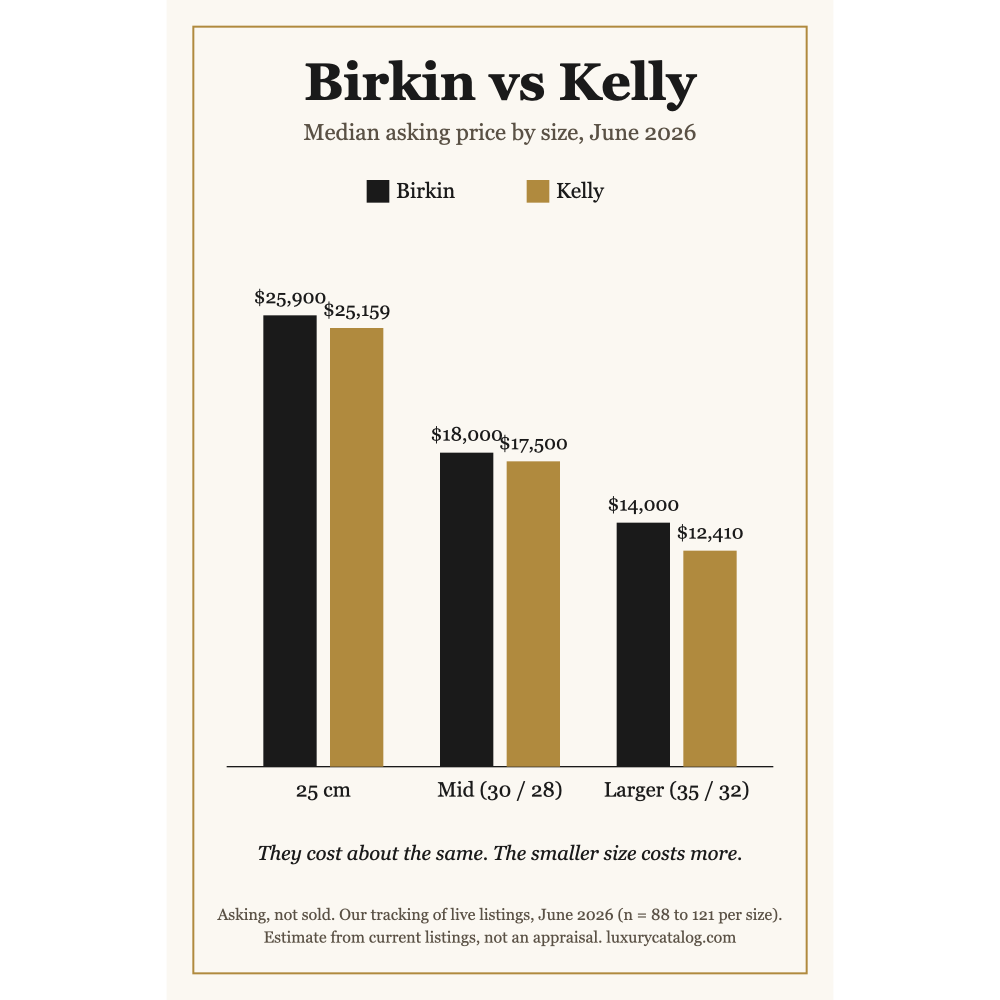
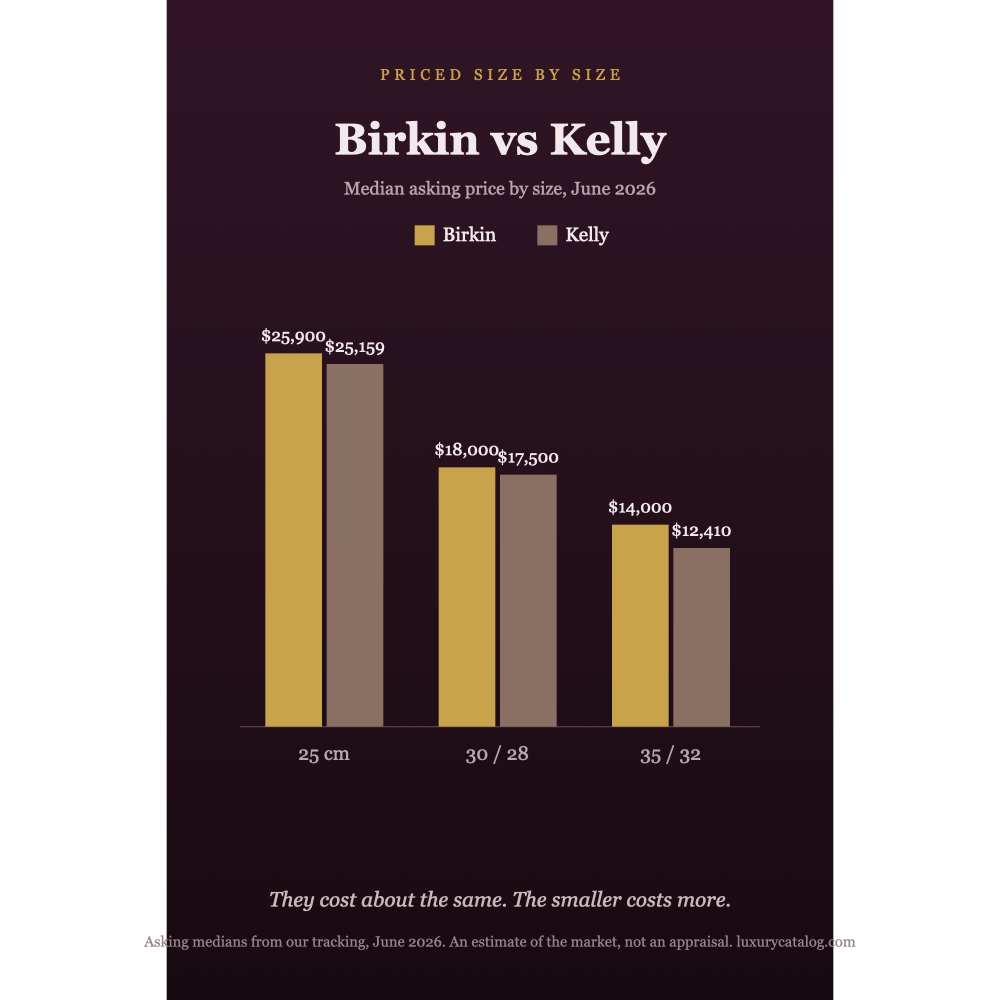
design(social): lock jewel house chart style + rebuild the set
Lady Dior (final: plum jewel base, gold/muted bars, growing non-logo bag
silhouettes, no frame, no arrow), Birkin-vs-Kelly, and Coach ask-vs-sold all
rebuilt to match. Style guide at assets/social/CHART-STYLE.md. PNGs rendered.

diff --git a/assets/social/CHART-STYLE.md b/assets/social/CHART-STYLE.md
@@ -1,0 +1,32 @@
+# House chart style (locked 2026-06-30)
+
+The look for every data-viz pin/graphic. Luxe and professional underneath, one human,
+un-gatekept touch on top. Frameless. Pinterest 2:3 (viewBox 1000x1500).
+
+## Palette (jewel base, default = plum)
+- Background: vertical gradient `#311525` → `#180a11` (plum). Alternates allowed: deep green
+  (`#1b2e25`→`#0e1813`) or charcoal (`#14120c`). Pick one per piece; do not mix.
+- Gold (primary data / accent): `#c9a24c`. Muted bar (the cheaper / secondary): `#8a6f63`.
+- Headline cream: `#f3e9ec`. Body/labels muted: `#b9a6ad`. Footer/hedge: `#9a838c`.
+- Baseline rule: `#5a3a46`.
+- Type: Georgia serif throughout. Kicker = small, letter-spaced, gold, all-caps.
+
+## Structure (top → bottom)
+1. Kicker (letter-spaced gold), then a two-line serif headline (second line gold italic).
+2. One-line subtitle: "<model>, median asking/sold by size, June 2026".
+3. The chart: bars off a thin baseline. Highlight the point bar in gold, others muted.
+4. Value labels in cream above each bar.
+5. **Bag silhouettes (single-model size charts only):** generic, NON-LOGO structured-bag
+   icon (`#bag` symbol), scaled up across the sizes so the bag grows while the price falls.
+   Skip on comparison charts (two models / ask-vs-sold).
+6. A warm italic tagline ("Same bag. More leather. Less money.").
+7. Footer hedge, always: "Asking/sold medians, June 2026. An estimate of the market, not an
+   appraisal. luxurycatalog.com".
+
+## Rules
+- **No border frame** (it tries too hard).
+- **No on-image caption + no hand-drawn arrow** (tried, cut, the bags carry the story).
+- **n stays off the social pins** (it lives in the on-site article charts; pins read clean).
+- Give labels room (don't clip tops). Every number traces to our dated capture.
+
+Reference: `2026-06-launch/lady-dior-smaller-pricier.svg`.